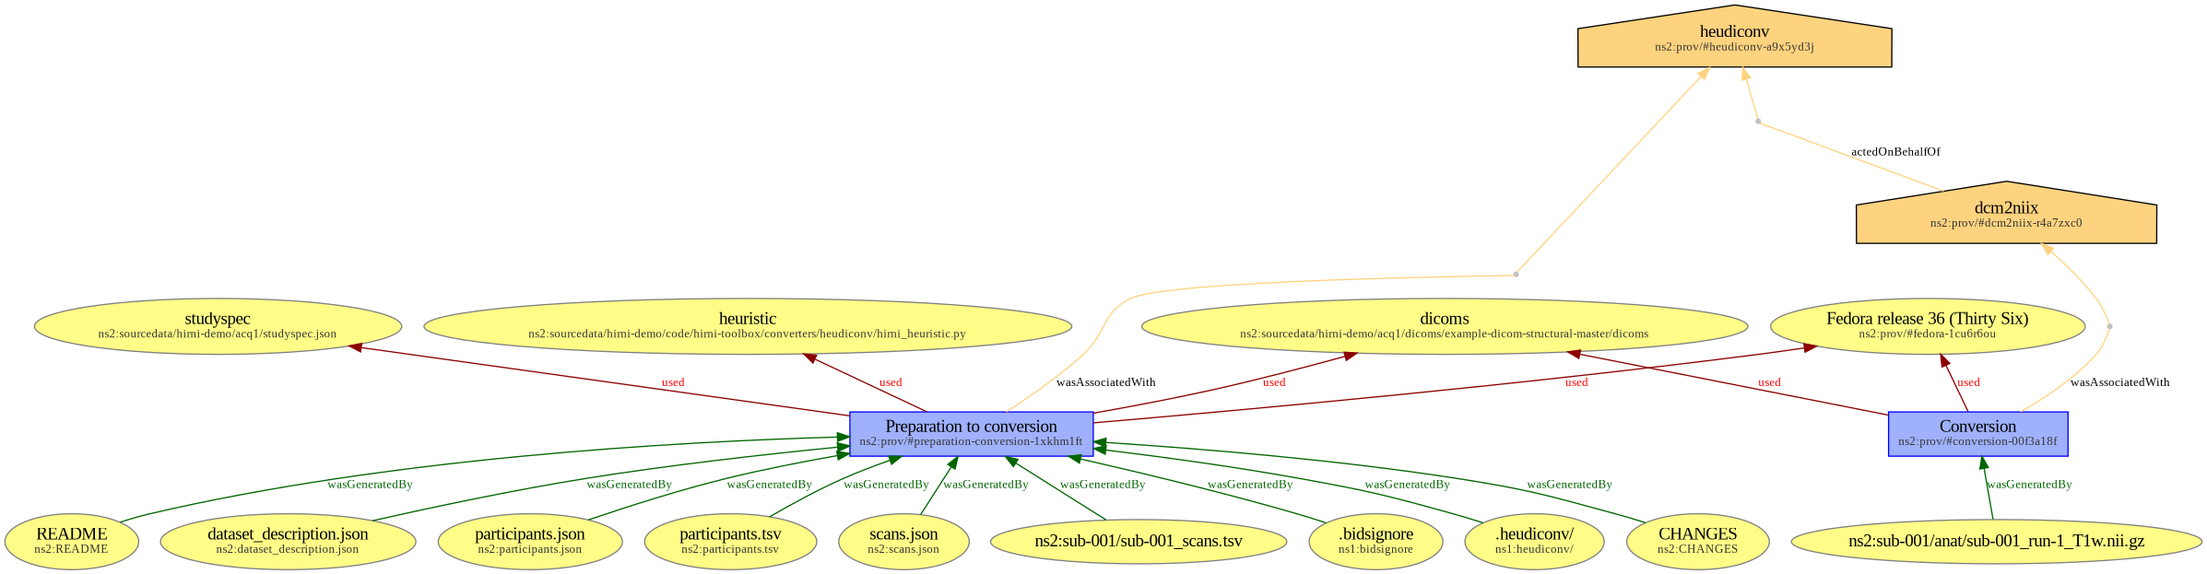
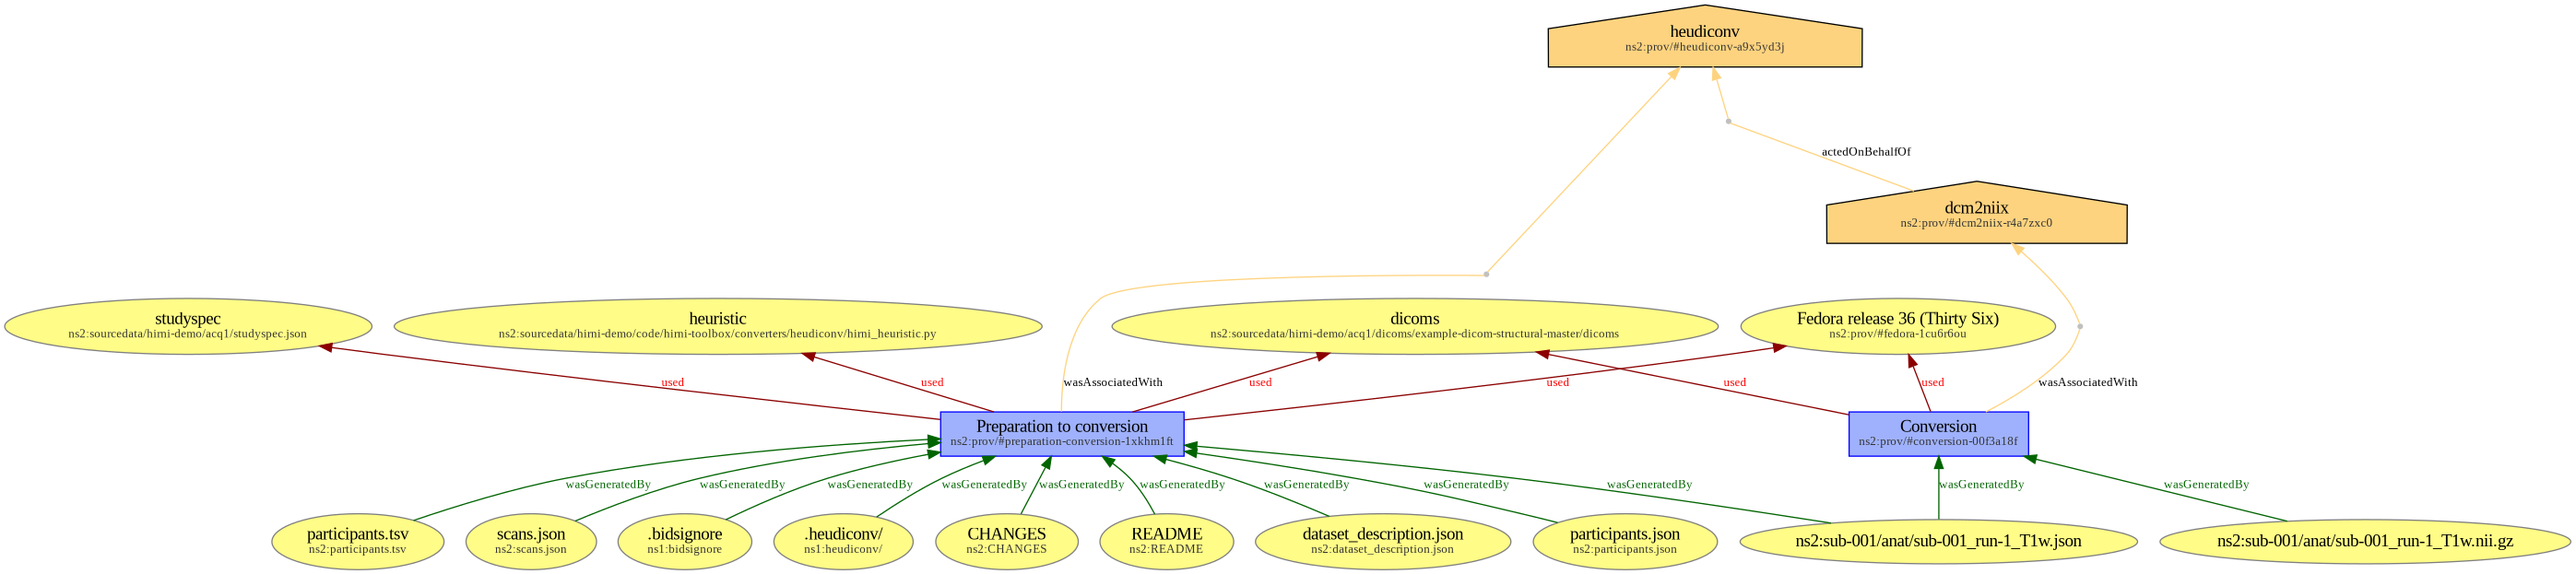
Adding provenance record for the JSON sidecar

diff --git a/examples/heudiconv/code/merge_prov.py b/examples/heudiconv/code/merge_prov.py
@@ -20,7 +20,6 @@ prov_ent_files = [
 	'prov/prov-heudiconv_ent.prov.json'
 ]
 sidecar_files = [
-	'sub-001/sub-001_scans.json',
 	'sub-001/anat/sub-001_run-1_T1w.json'
 ]
 
@@ -88,6 +87,12 @@ for sidecar_file in sidecar_files:
 					"Id": f"bids::{data_file}",
 					"GeneratedBy": activity_id
 					})
+		if 'SidecarGeneratedBy' in data:
+			activity_id = data['SidecarGeneratedBy']
+			base_provenance['Records']['Entities'].append({
+				"Id": f"bids::{sidecar_filename}",
+				"GeneratedBy": activity_id
+				})
 
 # Write jsonld
 with open('prov/merged/prov-heudiconv.prov.jsonld', 'w', encoding = 'utf-8') as file:

diff --git a/examples/heudiconv/README.md b/examples/heudiconv/README.md
@@ -144,6 +144,7 @@ We introduce the following BIDS suffixes that are currently not existing:
 * `base`: the file describes common BIDS Prov parameters for the group of provenance traces (version and context for BIDS Prov)
 
 We use the `GeneratedBy` field of JSON sidecars to link to Activities that created the file the sidecars refers to.
+We use the `SidecarGeneratedBy` field of JSON sidecars to link to Activities that created or modified the sidecars itself.
 
 In this example, we rely on the fact that nodes defined in the `prov/*.prov.jsonld` files have `bids::prov/` as base IRIs.
 
